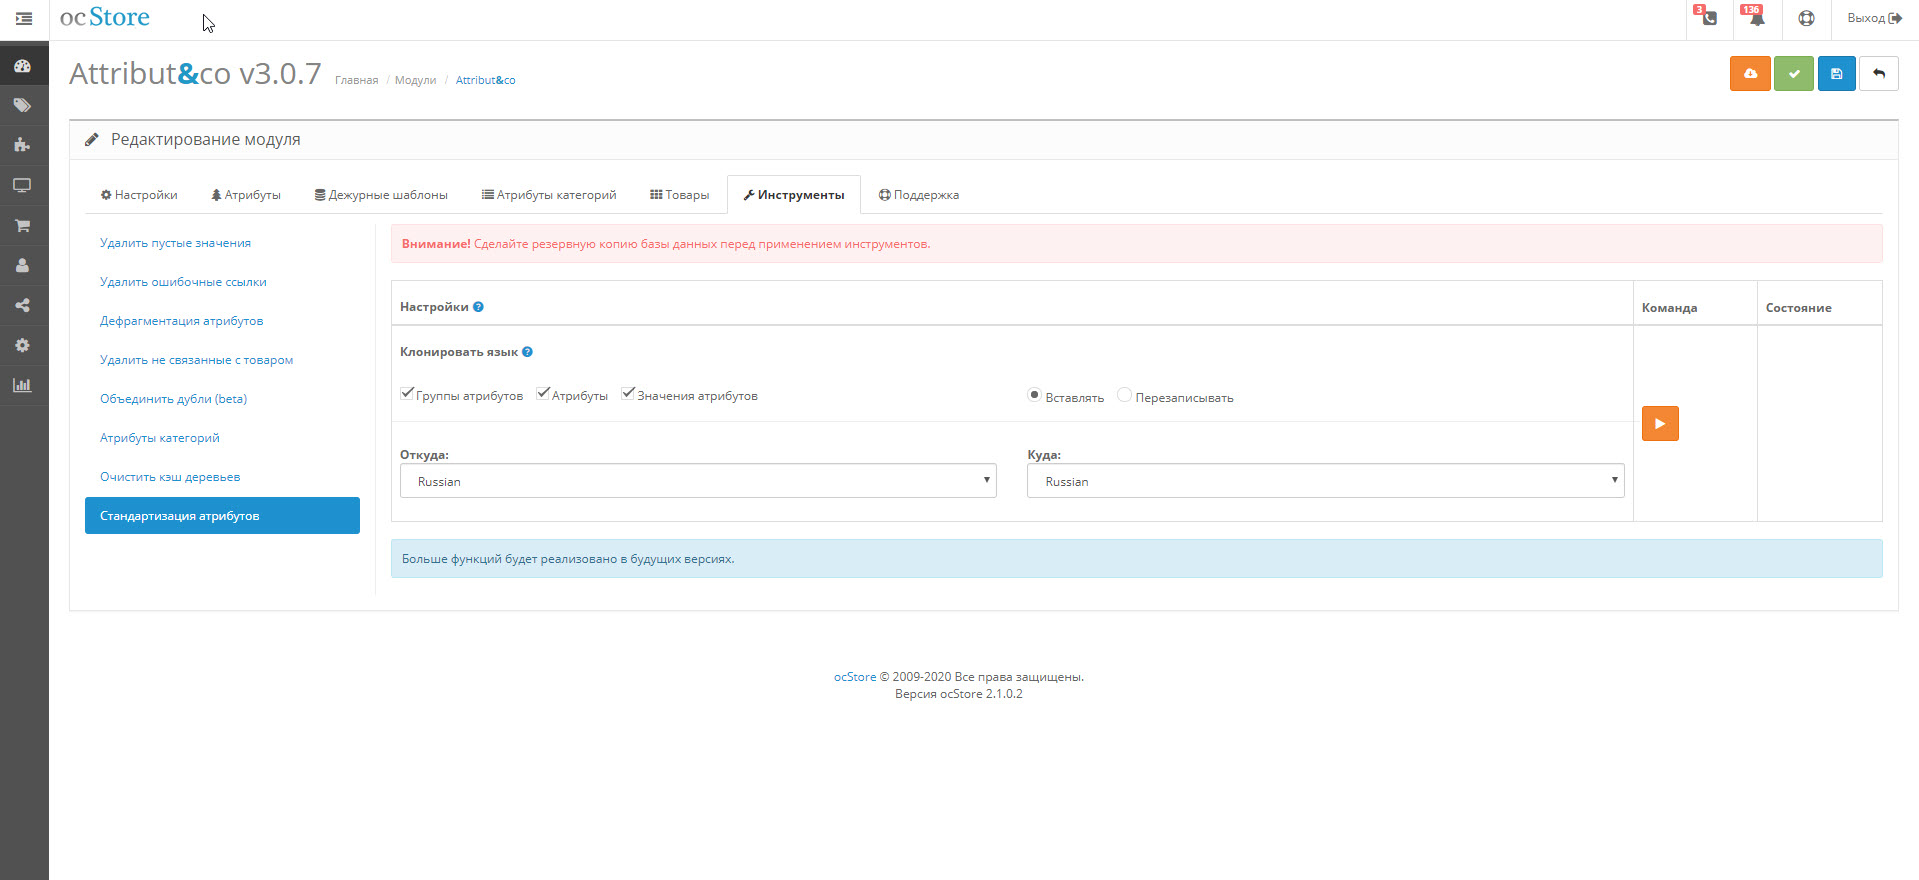
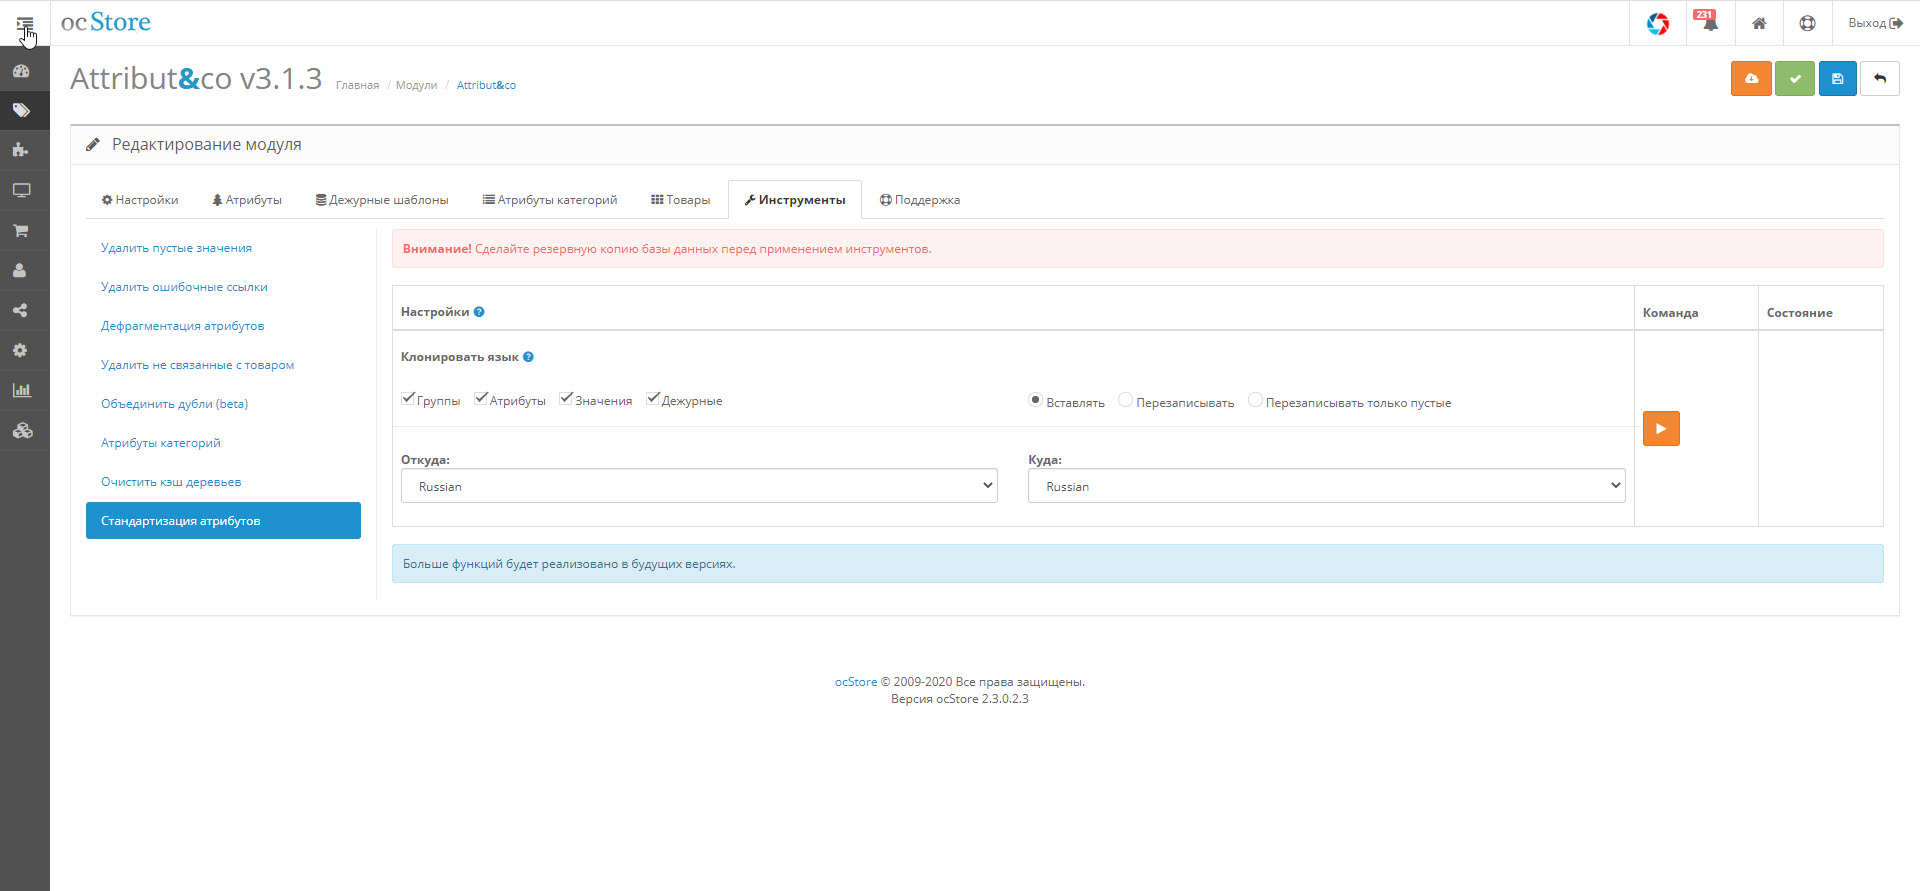
Tools clone

diff --git a/doc/ru/tools.html b/doc/ru/tools.html
@@ -275,13 +275,14 @@
                             <h3 id="clone">Клонирование атрибутов, групп или значений.</h3>
                             <p>Пока первая функция в стандартизации. Может быть полезна при подключении нового языка.</p>
                             <p>Можно отдельно клонировать <span class="node">Группы</span>, <span class="node">Атрибуты</span> или <span class="node">Значения</span></p>
-                            <p>В зависимости от выбранного режима будет производится вставка недостающих элементов либо вставка недостающих и перезапись отличающихся. Режим <code>Вставлять</code> 
-                                выгоден в тех случаях, когда, допустим, часть атрибутов уже переведена.</p>
-                            <p><span class="node">Дежурные шаблоны</span> клонируются одновременно с атрибутами.</p>
+                            <p>Режим <code>Вставлять</code> выгоден в тех случаях, когда, допустим, часть атрибутов уже переведена, но для некотрых элементов в Базе Даннх вообще отсутствуют записи. Недостающие записи будут вставлены и заполнены данными языка источника. Имеющиеся записи не будут затронуты, даже если имеют пустые поля.</p>
+                            <p>В режиме <code>Перезаписывать</code> недостающие записи будут вставлены и заполнены данными языка источника. Имеющиеся записи будут перезаписаны данными языка источника.</p>
+                            <p>В режиме <code>Перезаписывать</code> будут перезаписаны все записи, даже те, которые перезаписывать нежелательно. Чтобы защитить заполненные поля, можно использовать режим <code>Перезаписывать только пустые</code>. Имейте в виду, что это очень тяжелый режим с дополнительными запросами к Базе Данных. На больших магазинах могут быть прерывания по тайм-ауту и зависание системы.</p>  
+                            <p><span class="node">Дежурные шаблоны</span> клонируются одновременно с атрибутами, поэтому отмечать чекбокс "Дежурные" надо только в том случае, если требуется отдельно клонировать именно  <span class="node">Дежурные шаблоны</span>. Оптимальный режим в этом случае - <code>Перезаписывать только пустые</code>.</p>
                             <a class="lightgallery" href="/img/help/attributico/clone.jpg" title="Clone attribute between languages"><img src="/img/help/attributico/clone.jpg" alt="Clone attribute between languages"
                                     class="img-thumbnail img-responsive mb-3"></a>
                             <p>После выполнения задачи должно появиться соответсвующее сообщение.</p>
-                            <div class="alert alert-success alert-dismissible" role="alert"> Успешно! Операция завершена. Клонировано групп: 0 Клонировано атрибутов: 20 Клонировано значений: 624</div>
+                            <div class="alert alert-success alert-dismissible" role="alert"> Успешно! Операция завершена. Клонировано групп: 0 Клонировано атрибутов: 20 Клонировано значений: 624 Клонировано дежурных: 0</div>
                 </div>
         </main>
         <nav class="d-none d-xl-block col-xl-2 bd-right" aria-label="Secondary navigation">

diff --git a/doc/ru/using.html b/doc/ru/using.html
@@ -508,7 +508,7 @@
                             <td></td>
                             <td>Копировать > Вставить</td>
                             <td><kbd>[Ctrl+C]</kbd> > <kbd>[Ctrl+V]</kbd></td>
-                            <td>Копировать можно только атрибуты. Вставить только в группу.</td>
+                            <td>Копировать можно только атрибуты. Вставить только в группу или в категорию.</td>
                         </tr>
                         <tr>
                             <td>Сменить группу</td>
